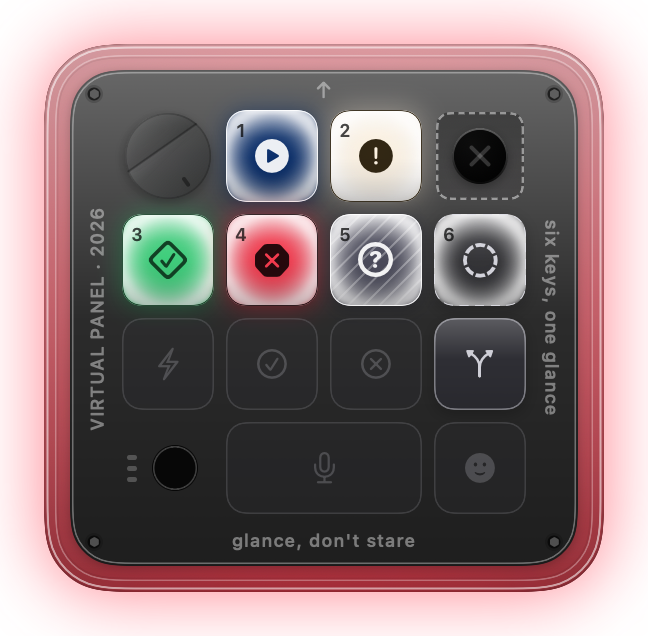
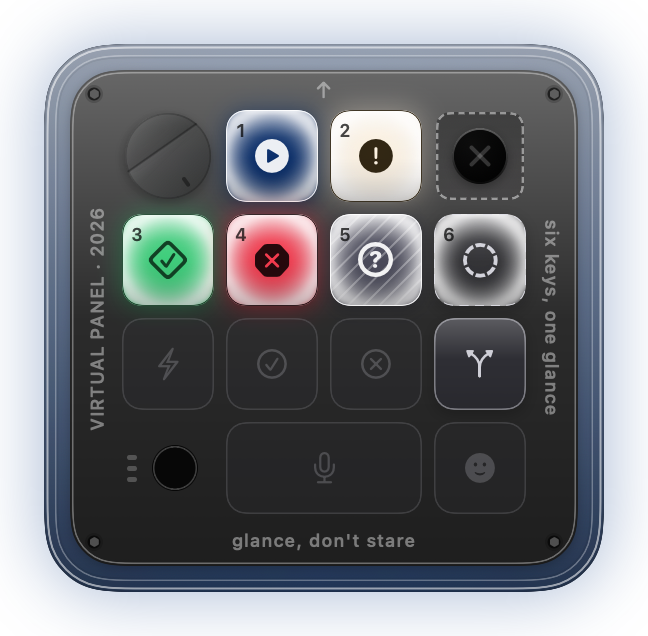
Glow follows the selected key, not the urgency ranking
The transparent margin showed the most urgent state anywhere, which is right for
an unattended panel and wrong once you are looking at a specific key: one stale
error pinned the whole case red and no later change could be seen. It now shows
the selected key's state, falling back to the most recently received change when
the selected slot has nothing to show.

The ranking is kept and still applies when no override is given, so the
unattended behaviour is unchanged - asserted, because losing it would be a silent
regression in the opposite direction.

My own check caught a defect in the change: coalescing the override straight into
the guard treated .unassigned as a valid glow, so selecting an empty slot washed
the case in the empty-slot colour instead of going dark. underglowRank already
says which states light the case; the override now obeys it.

VCM_GLOW=<state> renders the panel with a forced glow, which is how the override
was verified - blue for running and amber for needsInput from identical key
states, rather than asserted from the model.

Changed region(s): [[0.0309, 0.0299, 0.9877, 0.9858]]

diff --git a/Sources/VirtualCodexMicro/Panel/PanelCoordinator.swift b/Sources/VirtualCodexMicro/Panel/PanelCoordinator.swift
@@ -34,6 +34,15 @@ final class PanelCoordinator: ObservableObject {
     /// are edge-triggered with no snapshot. Neither is sufficient alone.
     private let hooks = ClaudeHookSource()
     private var transcripts = ClaudeTranscriptSource()
+
+    /// cmux-hosted sessions. Preferred over the generic paths where a session is
+    /// cmux's, because cmux can do what the terminal-scripting route cannot: focus
+    /// a named surface, and deliver an approval to that surface rather than to
+    /// whatever holds focus. Sessions it knows about are controllable, not merely
+    /// observable.
+    private let cmux = CmuxAdapter()
+    /// Session ids cmux hosts, so routing does not have to re-derive it per action.
+    private var cmuxHosted: Set<String> = []
     private var driftObserver: DriftTriggerObserver?
 
     /// The mock's own source. Long staleness threshold on purpose: the demo
@@ -49,6 +58,44 @@ final class PanelCoordinator: ObservableObject {
 
     /// Slot currently showing its detail popover, owned here so only one opens.
     @Published var detailSlot: Int?
+
+    /// The state the case should glow.
+    ///
+    /// The selected key's state, falling back to the most recently received change
+    /// when the selected slot has nothing to show. Replaces the urgency ranking for
+    /// the glow specifically: ranking is right for an unattended panel, but it meant
+    /// one stale `error` pinned the case red and every later change was invisible.
+    var glowState: AgentState? {
+        if let demoGlow { return demoGlow }
+        let selected = state(at: selectedSlot)
+        if selected != .unassigned { return selected }
+        return latestReceivedState
+    }
+
+    /// The most recent state a source actually reported, regardless of slot.
+    private(set) var latestReceivedState: AgentState?
+
+    /// The last action's outcome, for brief on-panel feedback.
+    ///
+    /// Exists because a *correct* refusal was indistinguishable from a dead button.
+    /// The adapter reads the surface before sending and declines when it cannot see
+    /// a real prompt — which is the safe behaviour — but with the outcome going only
+    /// to a log reachable through the menu bar, pressing accept with nothing pending
+    /// looked exactly like a broken key. Silence is the wrong answer for a control
+    /// surface: the whole product is about knowing what is going on at a glance.
+    @Published private(set) var lastActionNote: String?
+
+    private func note(_ text: String) {
+        lastActionNote = text
+        let token = UUID()
+        feedbackToken = token
+        Task { @MainActor in
+            try? await Task.sleep(for: .seconds(4))
+            if feedbackToken == token { lastActionNote = nil }
+        }
+    }
+
+    private var feedbackToken: UUID?
 
     /// The slot the command cluster and the dial act on.
     ///
@@ -73,6 +120,10 @@ final class PanelCoordinator: ObservableObject {
         engine.register(.claudeHooks)
         engine.register(.claudeTranscript)
         engine.register(OwnedSession.stateSource)
+        // Without this every cmux reading is rejected as an unregistered source —
+        // which the engine does deliberately and logs, but silently as far as the
+        // panel is concerned.
+        engine.register(.cmuxEvents)
         engine.register(Self.mockSource)
 
         // Strays from a previous crash, before anything else spawns.
@@ -86,12 +137,14 @@ final class PanelCoordinator: ObservableObject {
     static func demo(
         states: [Int: AgentState],
         sessions: [Int: AgentSession],
-        capabilities: SessionCapabilities = .observed
+        capabilities: SessionCapabilities = .observed,
+        glow: AgentState? = nil
     ) -> PanelCoordinator {
         let coordinator = PanelCoordinator()
         coordinator.demoStates = states
         coordinator.demoSessions = sessions
         coordinator.demoCapabilities = capabilities
+        coordinator.demoGlow = glow
         return coordinator
     }
 
@@ -100,6 +153,7 @@ final class PanelCoordinator: ObservableObject {
     private var demoStates: [Int: AgentState]?
     private var demoSessions: [Int: AgentSession] = [:]
     private var demoCapabilities: SessionCapabilities = .observed
+    private var demoGlow: AgentState?
 
     func start() {
         if ProcessInfo.processInfo.environment["VCM_COLORTEST"] != nil {
@@ -157,6 +211,7 @@ final class PanelCoordinator: ObservableObject {
         // Tailing first and on its own: at launch there are no hook events to
         // catch up on, so this is the only way six keys can mean anything before
         // the next transition happens.
+        await pollCmux()
         pollTranscripts()
         autobindFreeSlots()
         refresh(discovered: discoveredSessions)
@@ -164,6 +219,7 @@ final class PanelCoordinator: ObservableObject {
         await withTaskGroup(of: Void.self) { group in
             group.addTask { [weak self] in await self?.followHooks() }
             group.addTask { [weak self] in await self?.followTranscripts() }
+            group.addTask { [weak self] in await self?.followCmux() }
         }
     }
 
@@ -201,6 +257,28 @@ final class PanelCoordinator: ObservableObject {
                                      event: .note("\(event.name) ignored: \(reason)")))
         }
         refresh(discovered: discoveredSessions)
+    }
+
+    /// cmux's own view, which carries the session id directly: `surface.list`
+    /// reports each surface's UUID beside the checkpoint id, so no pid or tty join
+    /// is involved and none of that fragility applies.
+    private func pollCmux() async {
+        guard let found = try? await cmux.discoverSessions() else { return }
+        for session in found {
+            cmuxHosted.insert(session.id)
+            known[session.id] = DiscoveredSession(session: session)
+            record(session.state, for: session.id, from: .cmuxEvents)
+        }
+    }
+
+    private func followCmux() async {
+        for await updated in cmux.stateUpdates() {
+            cmuxHosted.insert(updated.id)
+            known[updated.id] = DiscoveredSession(session: updated)
+            record(updated.state, for: updated.id, from: .cmuxEvents)
+            autobindFreeSlots()
+            refresh(discovered: discoveredSessions)
+        }
     }
 
     private func pollTranscripts() {
@@ -303,6 +381,7 @@ final class PanelCoordinator: ObservableObject {
         guard case .accepted = engine.record(state, for: sessionID, from: source.id, observedAt: now)
         else { return }
         guard before != state else { return }
+        latestReceivedState = state
         log.record(ActivityEntry(
             at: now,
             slot: slot(for: sessionID),
@@ -365,7 +444,11 @@ final class PanelCoordinator: ObservableObject {
     /// which the command cluster renders differently from "bound but not allowed".
     func capabilities(at slot: Int) -> SessionCapabilities? {
         if demoStates != nil { return demoSessions[slot] == nil ? nil : demoCapabilities }
-        guard registry.binding(at: slot) != nil else { return nil }
+        guard let bound = registry.binding(at: slot) else { return nil }
+        // A cmux session is controllable, not merely observable: cmux can target a
+        // named surface, which was the whole objection to typing into a terminal we
+        // did not spawn.
+        if cmuxHosted.contains(bound.sessionID) { return CmuxAdapter.capabilities }
         return .observed
     }
 
@@ -382,6 +465,19 @@ final class PanelCoordinator: ObservableObject {
         // cannot be focused — an unfocusable session is still one you may want to
         // act on, and tier 3 is common (a bare `claude` carries no session id).
         select(slot)
+        if let bound = registry.binding(at: slot), cmuxHosted.contains(bound.sessionID) {
+            // cmux focuses the actual surface, so this is Tier 1 rather than the
+            // app-only raise the terminal-scripting path manages.
+            Task {
+                do { try await cmux.dispatch(.focus, to: bound.sessionID) }
+                catch {
+                    log.record(ActivityEntry(at: Date(), slot: slot, sessionID: bound.sessionID,
+                                             event: .note("cmux focus failed: \(error)")))
+                }
+                refresh(discovered: discoveredSessions)
+            }
+            return
+        }
         guard let binding = registry.binding(at: slot) else {
             log.record(ActivityEntry(at: Date(), slot: slot,
                                      event: .note("slot \(slot + 1) selected; nothing bound to focus")))
@@ -422,6 +518,14 @@ final class PanelCoordinator: ObservableObject {
         Task {
             let now = Date()
             do {
+                if cmuxHosted.contains(binding.sessionID) {
+                    try await cmux.dispatch(command, to: binding.sessionID)
+                    log.record(ActivityEntry(at: now, slot: target, sessionID: binding.sessionID,
+                                             event: .action(command, .sent)))
+                    note("\(slot.rawValue) sent to \(binding.title)")
+                    refresh(discovered: discoveredSessions)
+                    return
+                }
                 guard useDemoBackend else {
                     // Observed sessions cannot be typed into, and no owned session
                     // is spawned yet. Refusing loudly beats pretending: the key is
@@ -442,9 +546,23 @@ final class PanelCoordinator: ObservableObject {
                 // swallowed, which is what makes the gating verifiable end to end.
                 log.record(ActivityEntry(at: now, slot: target, sessionID: binding.sessionID,
                                          event: .action(command, .failed("\(error)"))))
+                note(Self.readable(error, slot: slot))
             }
             refresh(discovered: [])
         }
+    }
+
+    /// Turn a dispatch failure into something worth reading on a 46pt key's worth
+    /// of space. A refusal is the common case and must not read as a malfunction.
+    private static func readable(_ error: Error, slot: PanelLayout.CommandSlot) -> String {
+        let text = "\(error)"
+        if text.contains("refused") || text.contains("noPrompt") || text.contains("prompt") {
+            return "nothing waiting to \(slot.rawValue)"
+        }
+        if text.contains("notPermitted") || text.contains("capab") {
+            return "\(slot.rawValue) unavailable for this session"
+        }
+        return "\(slot.rawValue) failed"
     }
 
     /// Slots the panel can act on today. `pushToTalk` needs a transcript before it

diff --git a/Sources/VirtualCodexMicro/Panel/DeviceChrome.swift b/Sources/VirtualCodexMicro/Panel/DeviceChrome.swift
@@ -52,6 +52,14 @@ struct DeviceChrome: View {
     /// The six slot states, in key order. Short arrays are fine — missing slots
     /// simply do not vote.
     let states: [AgentState]
+    /// When set, this is the glow colour, overriding the urgency ranking below.
+    ///
+    /// The ranking answers "what is the most urgent thing anywhere", which is right
+    /// for an unattended panel but wrong once you are looking at a specific key: one
+    /// stale failure pinned the whole case red and buried every later change. The
+    /// owner passes the selected key's state, falling back to the most recent state
+    /// received, so the glow tracks what you are actually attending to.
+    var glowOverride: AgentState?
 
     @Environment(\.accessibilityReduceTransparency) private var reduceTransparency
 
@@ -114,9 +122,20 @@ struct DeviceChrome: View {
     static func underglow(
         for states: [AgentState],
         layout: PanelLayout,
-        reduceTransparency: Bool
+        reduceTransparency: Bool,
+        glowOverride: AgentState? = nil
     ) -> Underglow? {
-        guard let state = aggregateState(states) else { return nil }
+        // An override still has to obey `underglowRank`'s rule that some states do
+        // not light the case at all. Coalescing straight into the guard treated
+        // `.unassigned` as a valid glow, so selecting an empty slot washed the case
+        // in the empty-slot colour instead of going dark. Caught by this file's own
+        // check rather than by looking at it.
+        let resolved: AgentState? = if let glowOverride {
+            underglowRank(glowOverride) == nil ? nil : glowOverride
+        } else {
+            aggregateState(states)
+        }
+        guard let state = resolved else { return nil }
         let bleed = PanelLayout.glowBleed * layout.scale
         return Underglow(
             state: state,
@@ -164,7 +183,8 @@ struct DeviceChrome: View {
 
     var body: some View {
         let glow = Self.underglow(
-            for: states, layout: layout, reduceTransparency: reduceTransparency
+            for: states, layout: layout, reduceTransparency: reduceTransparency,
+            glowOverride: glowOverride
         )
         return ZStack {
             if let glow { underglowLayers(glow) }
@@ -413,6 +433,33 @@ struct DeviceChrome: View {
     ///
     ///     failures += DeviceChrome.selfCheckFailures().map { "chrome: \($0)" }
     static func selfCheckFailures() -> [String] {
+        var overrideFailures: [String] = []
+        // The override must beat the ranking, and must beat it for EVERY state —
+        // including the ones the ranking would otherwise suppress, which is the
+        // whole point: a stale `error` used to pin the case red so no later change
+        // could be seen. Driven from allCases so a new state is covered by default.
+        let overrideFixture: [AgentState] = [.error, .needsInput, .running]
+        for forced in AgentState.allCases where underglowRank(forced) != nil {
+            let glow = underglow(for: overrideFixture, layout: .regular,
+                                 reduceTransparency: false, glowOverride: forced)
+            if glow?.state != forced {
+                overrideFailures.append(
+                    "glow override \(forced.rawValue) was ignored; got \(glow?.state.rawValue ?? "nil")"
+                )
+            }
+        }
+        // With no override the ranking still applies, or the unattended panel loses
+        // its most-urgent-wins behaviour.
+        if underglow(for: overrideFixture, layout: .regular, reduceTransparency: false)?.state != .error {
+            overrideFailures.append("without an override the ranking no longer picks the most urgent state")
+        }
+        // An override of `unassigned` must not light the case: an empty slot is not
+        // a status, and selecting one should go dark rather than glow grey.
+        if underglow(for: [.unassigned], layout: .regular,
+                     reduceTransparency: false, glowOverride: .unassigned) != nil {
+            overrideFailures.append("an unassigned override lit the case")
+        }
+
         var failures: [String] = []
         func check(_ name: String, _ condition: Bool) {
             if !condition { failures.append(name) }
@@ -528,7 +575,7 @@ struct DeviceChrome: View {
         }
         check("two plate legends are identical", Set(Legend.all).count == Legend.all.count)
 
-        return failures
+        return overrideFailures + failures
     }
 }
 

diff --git a/Sources/VirtualCodexMicro/Panel/PanelRootView.swift b/Sources/VirtualCodexMicro/Panel/PanelRootView.swift
@@ -30,6 +30,7 @@ struct PanelRootView: View {
             dial
             pad
             overflowChip
+            actionNote
         }
         .frame(width: layout.panelSize.width, height: layout.panelSize.height)
         // Panel-local Tab, wrapping rather than falling out of the last zone.
@@ -162,6 +163,31 @@ struct PanelRootView: View {
         .focused($focus, equals: .overflow)
     }
 
+    /// Brief feedback for the last command, on the plate's bottom legend line so it
+    /// displaces printed text rather than covering a key. Four seconds, then gone.
+    @ViewBuilder
+    private var actionNote: some View {
+        if let note = coordinator.lastActionNote {
+            Text(note)
+                .font(.system(size: layout.fontSize(9), weight: .medium))
+                .lineLimit(1)
+                .truncationMode(.tail)
+                .foregroundStyle(.primary)
+                .padding(.horizontal, 6 * layout.scale)
+                .padding(.vertical, 2 * layout.scale)
+                .background(
+                    Capsule().fill(reduceTransparency
+                                   ? AnyShapeStyle(Color(nsColor: .windowBackgroundColor))
+                                   : AnyShapeStyle(.regularMaterial))
+                )
+                .frame(maxWidth: layout.plateFrame.width - 24 * layout.scale)
+                .position(x: layout.plateFrame.midX,
+                          y: layout.plateFrame.maxY - 13 * layout.scale)
+                .transition(.opacity)
+                .accessibilityAddTraits(.isStaticText)
+        }
+    }
+
     /// The device itself: translucent shell, inset plate with screws and printed
     /// legends, and the state underglow bleeding past the case. The glow is the
     /// at-a-glance mechanism the reference photographs make obvious and my first
@@ -169,7 +195,8 @@ struct PanelRootView: View {
     private var silhouette: some View {
         DeviceChrome(
             layout: layout,
-            states: (0 ..< PanelLayout.agentKeyCount).map { coordinator.state(at: $0) }
+            states: (0 ..< PanelLayout.agentKeyCount).map { coordinator.state(at: $0) },
+            glowOverride: coordinator.glowState
         )
     }
 }

diff --git a/Sources/VirtualCodexMicro/Panel/OffscreenRender.swift b/Sources/VirtualCodexMicro/Panel/OffscreenRender.swift
@@ -18,11 +18,14 @@ enum OffscreenRender {
 
         for (suffix, scheme) in [("light", ColorScheme.light), ("dark", ColorScheme.dark)] {
             let layout = PanelLayout.regular
+            let forced = ProcessInfo.processInfo.environment["VCM_GLOW"]
+                .flatMap { AgentState(rawValue: $0) }
             let view = PanelRootView(
                 coordinator: .demo(
                     states: demoStates(suffix),
                     sessions: demoSessions(suffix),
-                    capabilities: .observed   // shows the disabled command treatment
+                    capabilities: .observed,  // shows the disabled command treatment
+                    glow: forced
                 ),
                 layout: layout
             )
